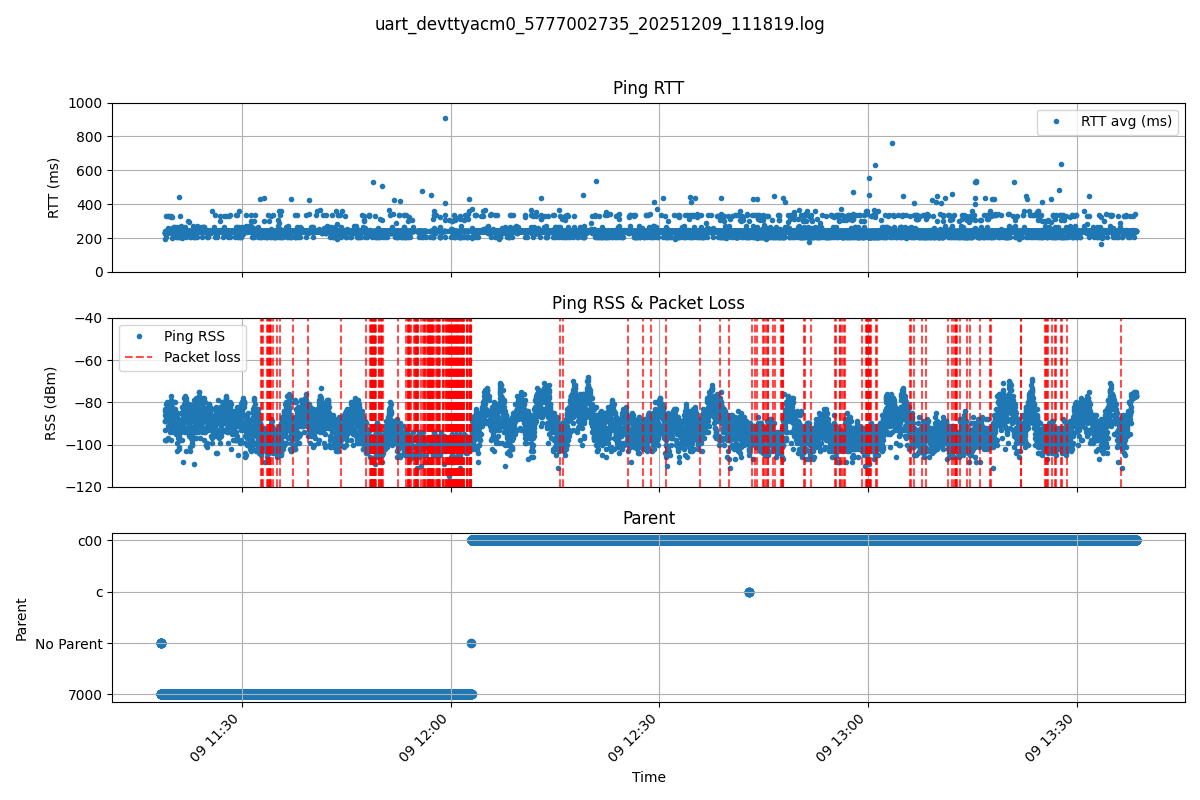
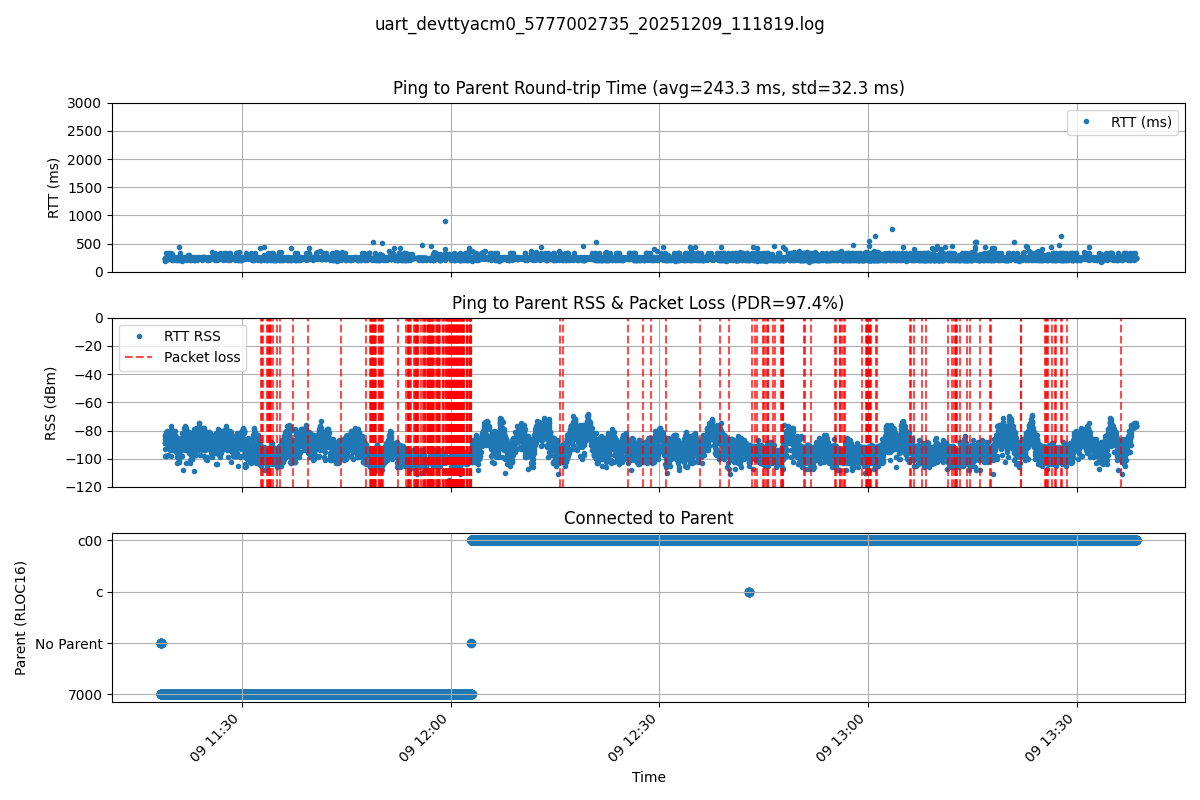
improved titles, labels and plot ranges

diff --git a/esp32_log_visualize.py b/esp32_log_visualize.py
@@ -16,8 +16,8 @@ GRAPHS_DIR = "graphs"
 PING_REPLY_LEN = 56
 
 # Fixed y-axis ranges (set to None to auto-scale)
-RTT_YLIM = (0, 1000)       # ms
-RSS_YLIM = (-120, -40)     # dBm
+RTT_YLIM = (0, 3000)       # ms
+RSS_YLIM = (-120, 0)     # dBm
 
 # Ensure base graphs directory exists
 os.makedirs(GRAPHS_DIR, exist_ok=True)
@@ -286,9 +286,12 @@ def parse_log_file(log_path: str) -> LogMetrics:
 def plot_rtt(
     ax,
     metrics: LogMetrics,
+    rtt_mean_ms: Optional[float] = None,
+    rtt_std_ms: Optional[float] = None,
 ) -> None:
     """
     Plot RTT on the provided Axes (no packet-loss here).
+    Optionally include mean and std in the title.
     """
     timestamps_rtt = metrics.rtt_timestamps
     avg_rtts_ms = metrics.rtt_avgs_ms
@@ -299,12 +302,17 @@ def plot_rtt(
             avg_rtts_ms,
             marker=".",
             linestyle="",
-            label="RTT avg (ms)",
+            label="RTT (ms)",
         )
         ax.legend()
 
     ax.set_ylabel("RTT (ms)")
-    ax.set_title("Ping RTT")
+
+    if rtt_mean_ms is not None and rtt_std_ms is not None:
+        ax.set_title(f"Ping to Parent Round-trip Time (avg={rtt_mean_ms:.1f} ms, std={rtt_std_ms:.1f} ms)")
+    else:
+        ax.set_title("Ping to Parent Round-trip Time")
+
     ax.grid(True)
 
     if RTT_YLIM is not None:
@@ -326,7 +334,7 @@ def plot_parents(
         parent_ids = metrics.parent_ids
 
     if not parent_timestamps:
-        ax.set_title("Parent")
+        ax.set_title("Connected to Parent")
         ax.text(
             0.5,
             0.5,
@@ -344,10 +352,10 @@ def plot_parents(
     y_values = [parent_to_index[p] for p in parent_ids]
 
     ax.scatter(parent_timestamps, y_values)
-    ax.set_ylabel("Parent")
+    ax.set_ylabel("Parent (RLOC16)")
     ax.set_yticks(range(len(unique_parents)))
     ax.set_yticklabels(unique_parents)
-    ax.set_title("Parent")
+    ax.set_title("Connected to Parent")
     ax.grid(True)
 
 
@@ -405,11 +413,11 @@ def plot_rss_and_loss(
 
     ax.set_ylabel("RSS (dBm)")
 
-    # PDR now appears here in the second subtitle
+    # PDR appears here in the second subtitle
     if overall_pdr is not None:
-        ax.set_title(f"Ping RSS & Packet Loss (PDR={overall_pdr:.1f}%)")
+        ax.set_title(f"Ping to Parent RSS & Packet Loss (PDR={overall_pdr:.1f}%)")
     else:
-        ax.set_title("Ping RSS & Packet Loss")
+        ax.set_title("Ping to Parent RSS & Packet Loss")
 
     ax.grid(True)
 
@@ -461,6 +469,24 @@ def process_log_file(log_path: str, rtt_by_file: Dict[str, List[float]]) -> None
         overall_pdr = None
         print(f"[SUMMARY] {log_path}: No packet summary lines found for PDR.")
 
+    # RTT statistics (mean and std) over this file
+    if metrics.rtt_avgs_ms:
+        vals = metrics.rtt_avgs_ms
+        n = len(vals)
+        rtt_mean_ms = sum(vals) / n
+        if n > 1:
+            var = sum((v - rtt_mean_ms) ** 2 for v in vals) / n  # population variance
+            rtt_std_ms = var ** 0.5
+        else:
+            rtt_std_ms = 0.0
+        print(
+            f"[SUMMARY] {log_path}: RTT mean = {rtt_mean_ms:.2f} ms, "
+            f"std = {rtt_std_ms:.2f} ms"
+        )
+    else:
+        rtt_mean_ms = None
+        rtt_std_ms = None
+
     # If there's absolutely nothing to plot, skip.
     if (
         not metrics.rtt_timestamps
@@ -480,7 +506,7 @@ def process_log_file(log_path: str, rtt_by_file: Dict[str, List[float]]) -> None
     )
     ax_rtt, ax_rss, ax_parent = axes
 
-    plot_rtt(ax=ax_rtt, metrics=metrics)
+    plot_rtt(ax=ax_rtt, metrics=metrics, rtt_mean_ms=rtt_mean_ms, rtt_std_ms=rtt_std_ms)
     plot_rss_and_loss(ax=ax_rss, metrics=metrics, overall_pdr=overall_pdr)
     plot_parents(ax=ax_parent, metrics=metrics)
 
@@ -548,7 +574,7 @@ def main():
         showfliers=False,
     )
     plt.ylabel("RTT (ms)")
-    plt.title("Ping RTT Boxplot per File")
+    plt.title("Ping to Parent Round-trip Time per File")
     plt.xticks(rotation=45, ha="right")
     plt.tight_layout()
 
